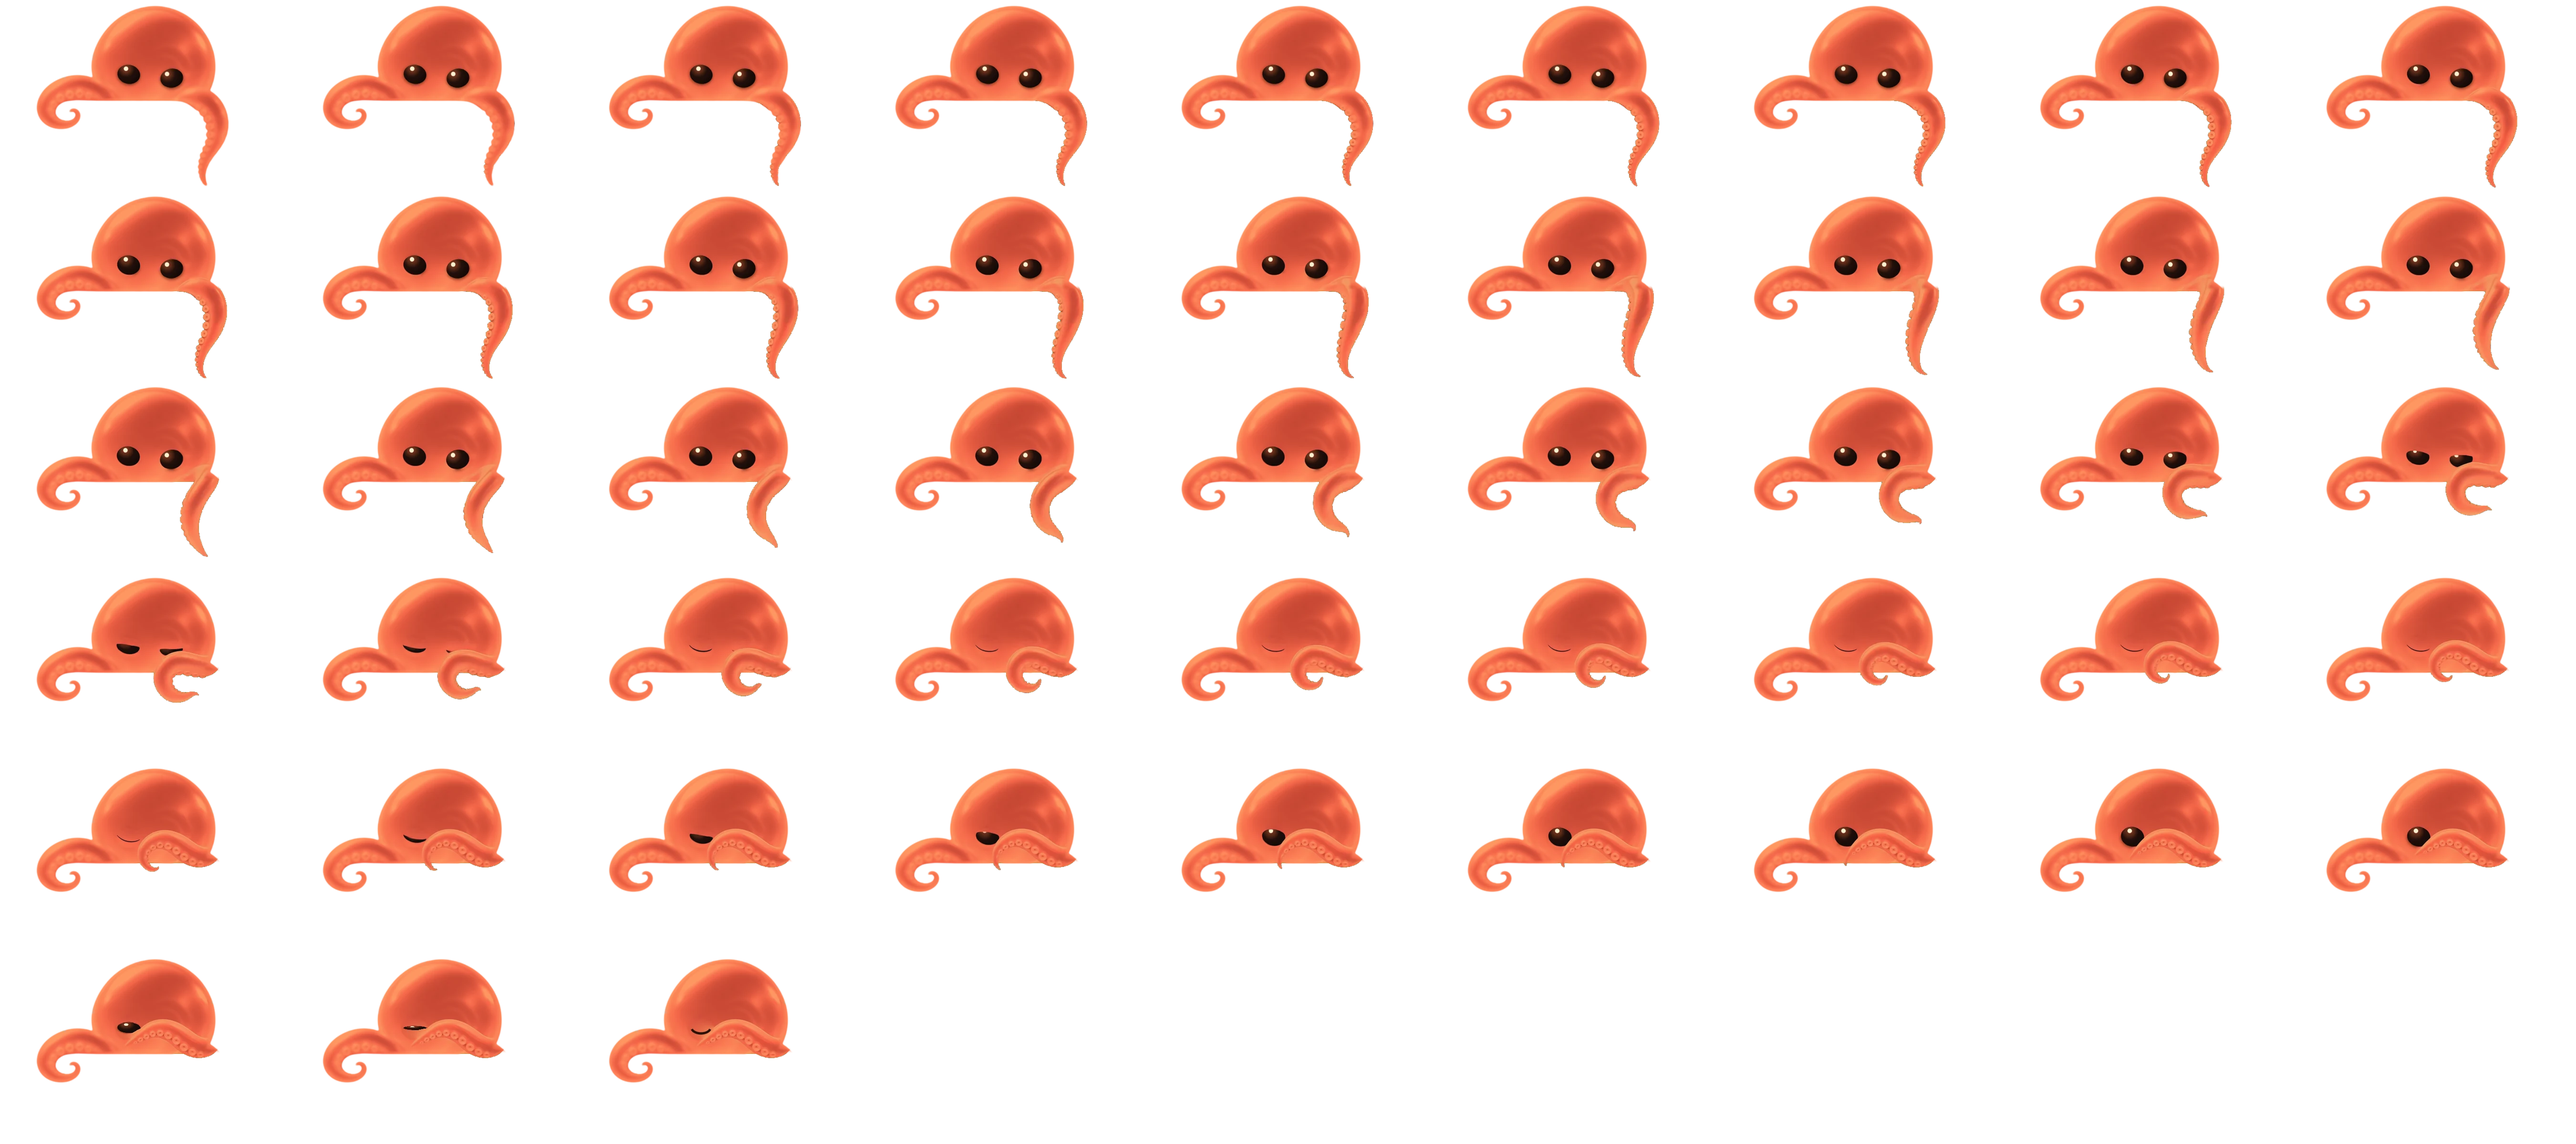
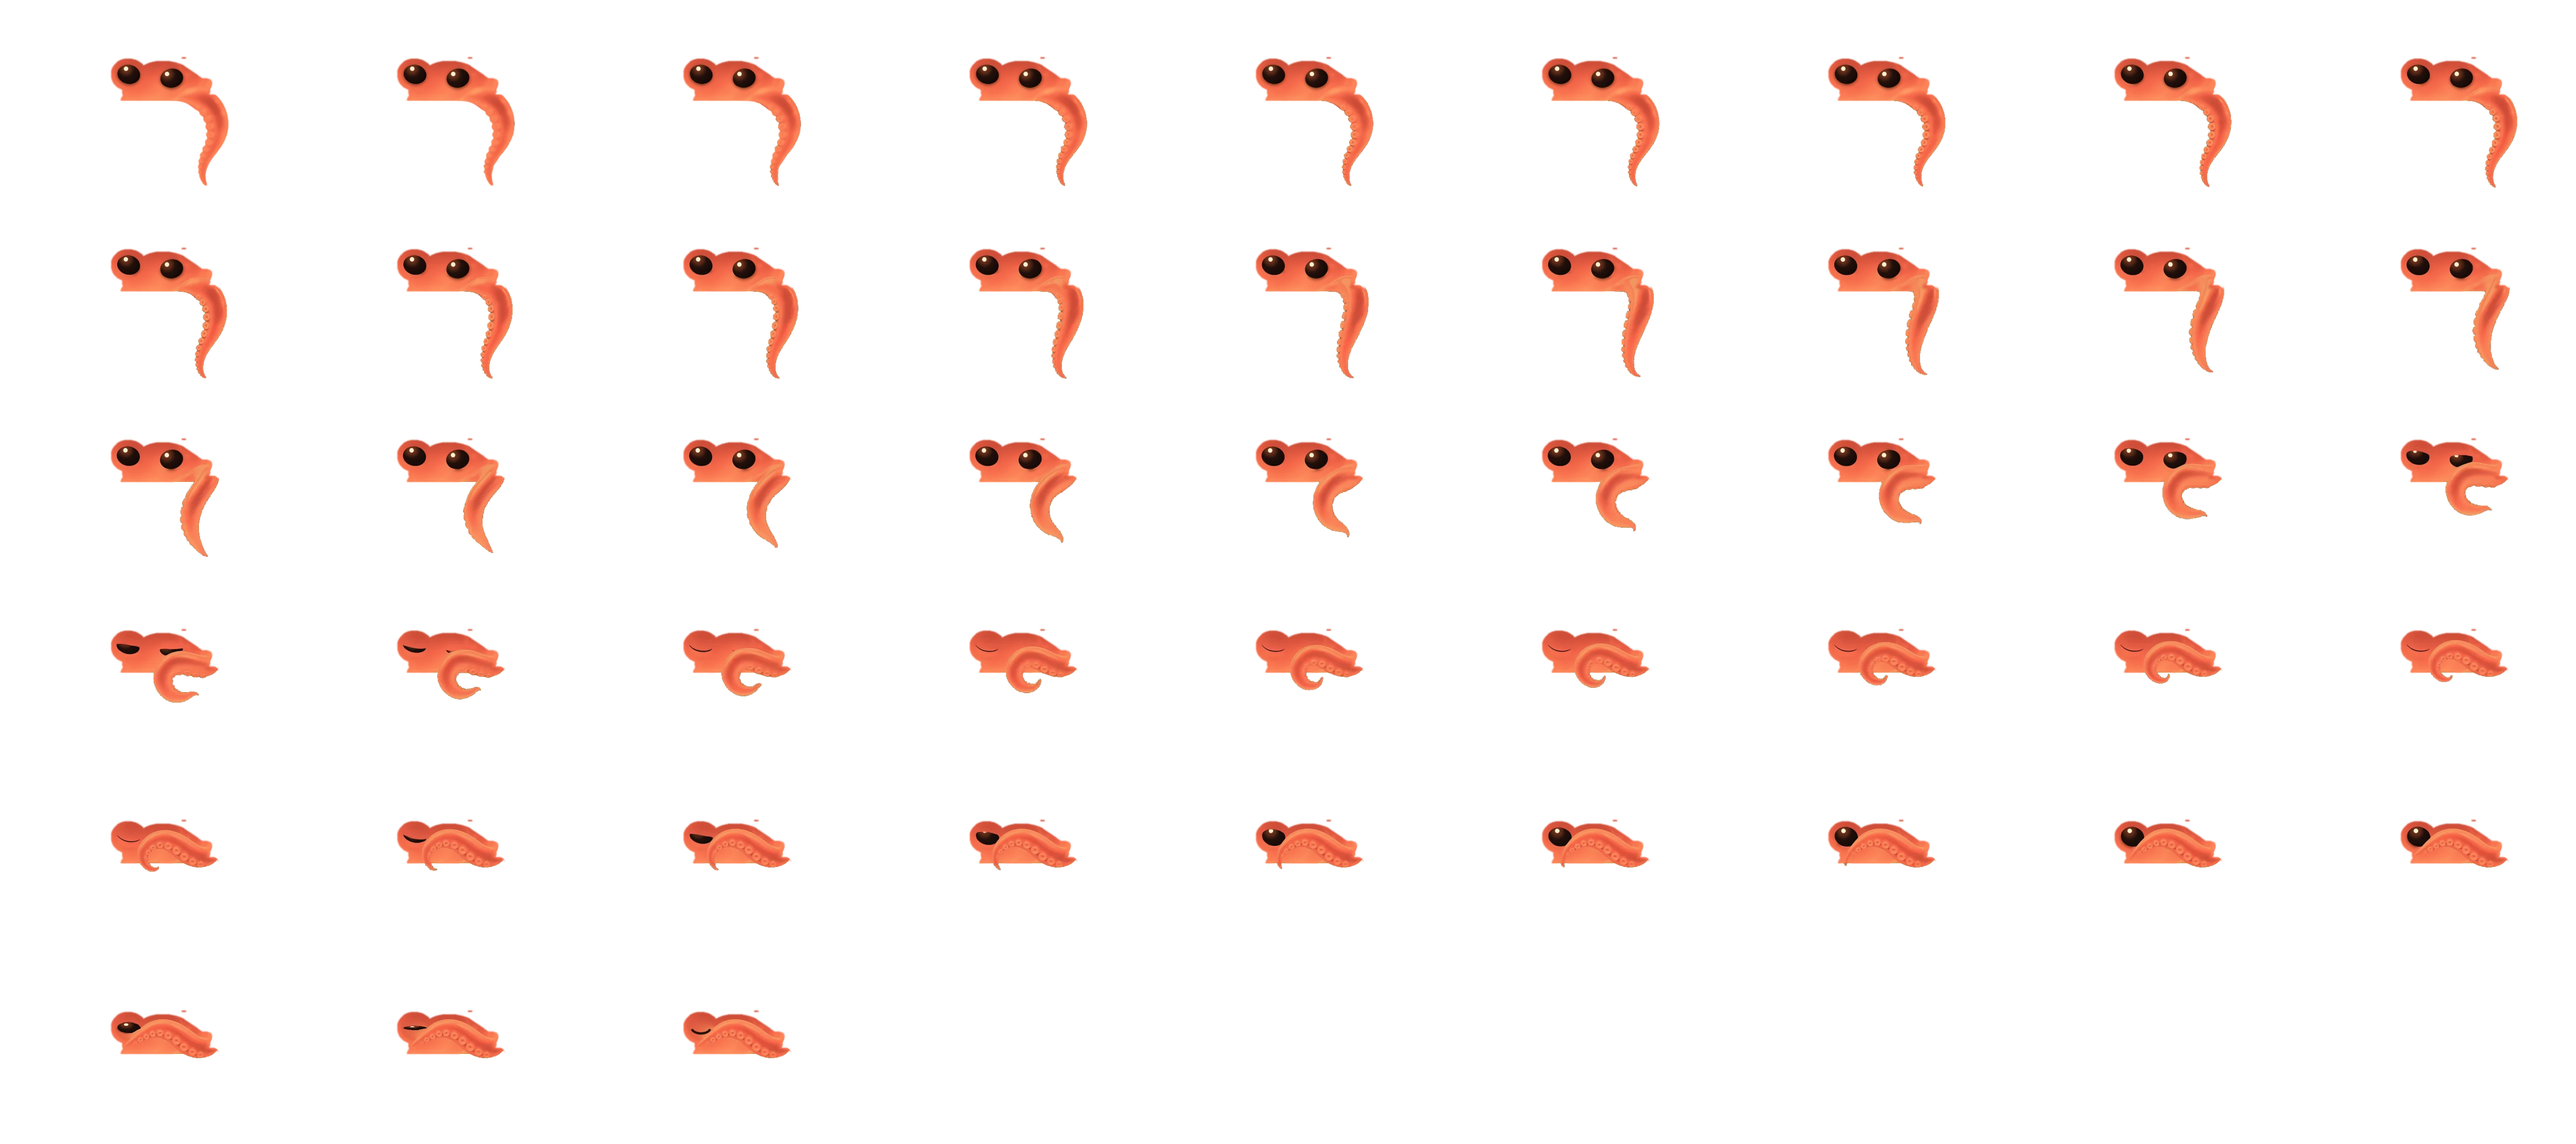
Login octopus: frames cover only the moving arm and eyes; the page's picture stays visible, so no fading

diff --git a/login.html b/login.html
@@ -3,7 +3,7 @@
 .top nav{display:flex;align-items:center;gap:26px}.site-nav-group{position:relative}.site-nav-group summary{list-style:none;cursor:pointer;font:650 12px Sofia,Arial,sans-serif;letter-spacing:1.1px;color:inherit;white-space:nowrap}.site-nav-group summary::-webkit-details-marker{display:none}.site-nav-group summary:after{content:'⌄';margin-left:8px;color:#f46649}.site-nav-menu{position:absolute;top:calc(100% + 18px);left:-20px;width:260px;padding:10px;border:1px solid #180f101a;border-radius:14px;background:#eee9de;z-index:60;display:grid;gap:2px}.top .site-nav-menu a{display:block;padding:12px 14px;border-radius:7px;color:#180f10;font-size:13px;letter-spacing:0;text-transform:none;text-decoration:none}.top .site-nav-menu a:hover,.top .site-nav-menu a:focus-visible{background:#f4664918;color:#a64734}.site-nav-group summary:focus-visible{outline:2px solid #f46649;outline-offset:6px}.top .nav-contact,.top .connect{white-space:nowrap;text-decoration:none}.top{overflow:visible}
 @media(max-width:1050px){.top nav{gap:16px}.top nav>a,.site-nav-group summary{font-size:10px}}
 @media(max-width:850px){.top{flex-wrap:wrap;height:auto;min-height:88px;padding-top:12px;padding-bottom:12px;gap:12px}.top nav{display:flex!important;order:3;width:100%;justify-content:space-between;gap:8px}.site-nav-menu{width:220px;left:0}.top .nav-contact,.top .connect{padding:12px;font-size:10px}.site-nav-group summary,.top nav>a{font-size:10px;letter-spacing:.5px}}
-</style><link rel="stylesheet" href="bridgify-footer.css"><style>@font-face{font-family:Sofia;src:url("Sofia_Sans/SofiaSans-VariableFont_wght.ttf");font-weight:100 900}@font-face{font-family:Chillax;src:url("Chillax_Complete/Fonts/OTF/Chillax-Medium.otf");font-weight:500}</style><link rel="stylesheet" href="bridgify-logo-current.css?v=flat-lockup-5"><link rel="icon" type="image/svg+xml" href="assets/bridgify-favicon.svg"><meta name="description" content="Log in to your Bridgify partner account."><meta name="robots" content="noindex"><link rel="stylesheet" href="copy-v4.css?v=copy-v4-final"><link rel="canonical" href="https://www.bridgify.io/login"><link rel="stylesheet" href="login.css?v=shy16"><link rel="stylesheet" href="shared-footer.css?v=2"><script src="shared-footer.js?v=2" defer></script><link rel="stylesheet" href="brand-typography.css?v=body16"><link rel="stylesheet" href="brand-section-labels.css?v=2"><link rel="stylesheet" href="brand-consistency.css?v=roles2"><link rel="stylesheet" href="shared-navigation.css?v=current1"><script src="shared-navigation.js?v=4" defer></script></head><body data-copy-page="login" class="brand-inner-page"><svg width="0" height="0" aria-hidden="true" style="position:absolute;pointer-events:none"><defs><filter id="brand-knockout" color-interpolation-filters="sRGB"><feColorMatrix type="matrix" values="1 0 0 0 0  0 1 0 0 0  0 0 1 0 0  0 0 -1 0 1"/><feComponentTransfer><feFuncA type="linear" slope="2" intercept="-0.12"/></feComponentTransfer><feComposite in2="SourceAlpha" operator="in"/></filter></defs></svg><header class="top site-header-common"><a class="logo" href="index.html" aria-label="Bridgify home"><img class="brand-logo-full" src="assets/bridgify-logo-full.svg" alt="Bridgify, part of HBX Group" width="1009" height="199"></a><nav aria-label="Main navigation"><details class="site-nav-group"><summary>PRODUCTS</summary><div class="site-nav-menu"><a href="index.html#products">All products</a><a href="api.html">Experiences API</a><a href="marketplace.html">White-Label Marketplace</a><a href="personalization.html">AIyelet: AI personalization</a></div></details><details class="site-nav-group"><summary>SOLUTIONS</summary><div class="site-nav-menu"><a href="otas.html">OTAs and travel platforms</a><a href="airlines.html">Airlines</a><a href="hotels.html">Hotels</a><a href="loyalty-finance.html">Loyalty, rewards and financial services</a><a href="travel-technology.html">Travel technology companies</a><a href="super-apps.html">Super apps and consumer platforms</a></div></details><a href="developers.html">DEVELOPERS</a><details class="site-nav-group"><summary>RESOURCES</summary><div class="site-nav-menu"><a href="insights.html">Insights</a><a href="press.html">Press</a></div></details><details class="site-nav-group"><summary>COMPANY</summary><div class="site-nav-menu"><a href="about-us.html">About</a><a href="careers.html">Careers</a></div></details></nav><div class="nav-actions"><a class="nav-login" href="login.html" aria-current="page">LOG IN</a><a class="connect" href="demo.html?context=login">BOOK A DEMO ↗</a></div></header><main class="login-page" id="main">
+</style><link rel="stylesheet" href="bridgify-footer.css"><style>@font-face{font-family:Sofia;src:url("Sofia_Sans/SofiaSans-VariableFont_wght.ttf");font-weight:100 900}@font-face{font-family:Chillax;src:url("Chillax_Complete/Fonts/OTF/Chillax-Medium.otf");font-weight:500}</style><link rel="stylesheet" href="bridgify-logo-current.css?v=flat-lockup-5"><link rel="icon" type="image/svg+xml" href="assets/bridgify-favicon.svg"><meta name="description" content="Log in to your Bridgify partner account."><meta name="robots" content="noindex"><link rel="stylesheet" href="copy-v4.css?v=copy-v4-final"><link rel="canonical" href="https://www.bridgify.io/login"><link rel="stylesheet" href="login.css?v=shy17"><link rel="stylesheet" href="shared-footer.css?v=2"><script src="shared-footer.js?v=2" defer></script><link rel="stylesheet" href="brand-typography.css?v=body16"><link rel="stylesheet" href="brand-section-labels.css?v=2"><link rel="stylesheet" href="brand-consistency.css?v=roles2"><link rel="stylesheet" href="shared-navigation.css?v=current1"><script src="shared-navigation.js?v=4" defer></script></head><body data-copy-page="login" class="brand-inner-page"><svg width="0" height="0" aria-hidden="true" style="position:absolute;pointer-events:none"><defs><filter id="brand-knockout" color-interpolation-filters="sRGB"><feColorMatrix type="matrix" values="1 0 0 0 0  0 1 0 0 0  0 0 1 0 0  0 0 -1 0 1"/><feComponentTransfer><feFuncA type="linear" slope="2" intercept="-0.12"/></feComponentTransfer><feComposite in2="SourceAlpha" operator="in"/></filter></defs></svg><header class="top site-header-common"><a class="logo" href="index.html" aria-label="Bridgify home"><img class="brand-logo-full" src="assets/bridgify-logo-full.svg" alt="Bridgify, part of HBX Group" width="1009" height="199"></a><nav aria-label="Main navigation"><details class="site-nav-group"><summary>PRODUCTS</summary><div class="site-nav-menu"><a href="index.html#products">All products</a><a href="api.html">Experiences API</a><a href="marketplace.html">White-Label Marketplace</a><a href="personalization.html">AIyelet: AI personalization</a></div></details><details class="site-nav-group"><summary>SOLUTIONS</summary><div class="site-nav-menu"><a href="otas.html">OTAs and travel platforms</a><a href="airlines.html">Airlines</a><a href="hotels.html">Hotels</a><a href="loyalty-finance.html">Loyalty, rewards and financial services</a><a href="travel-technology.html">Travel technology companies</a><a href="super-apps.html">Super apps and consumer platforms</a></div></details><a href="developers.html">DEVELOPERS</a><details class="site-nav-group"><summary>RESOURCES</summary><div class="site-nav-menu"><a href="insights.html">Insights</a><a href="press.html">Press</a></div></details><details class="site-nav-group"><summary>COMPANY</summary><div class="site-nav-menu"><a href="about-us.html">About</a><a href="careers.html">Careers</a></div></details></nav><div class="nav-actions"><a class="nav-login" href="login.html" aria-current="page">LOG IN</a><a class="connect" href="demo.html?context=login">BOOK A DEMO ↗</a></div></header><main class="login-page" id="main">
 <section class="login-shell" aria-labelledby="login-title">
  <div class="login-intro">
   <div class="login-eyebrow"><span aria-hidden="true"></span>PARTNER LOGIN</div>
@@ -87,4 +87,4 @@
   </div>
 </footer>
 </div>
-<!-- SHARED FOOTER END --><script src="bridgify-pages.js"></script><script src="bridgify-nav-motion.js"></script><script src="login.js?v=shy16" defer></script><script src="brand-section-labels.js?v=2"></script><script src="brand-consistency.js?v=roles1"></script></body></html>
+<!-- SHARED FOOTER END --><script src="bridgify-pages.js"></script><script src="bridgify-nav-motion.js"></script><script src="login.js?v=shy17" defer></script><script src="brand-section-labels.js?v=2"></script><script src="brand-consistency.js?v=roles1"></script></body></html>

diff --git a/login.css b/login.css
@@ -89,9 +89,11 @@ body[data-copy-page="login"] .top .connect{background:#eee9de;color:#180f10}
 @media(prefers-reduced-motion:reduce){.login-mascot .login-arm{transform:none}.login-eye{translate:none;scale:none}}
 
 /* Shy octopus (login.js): while the password is typed, a frame sheet shows the right arm curling up over one eye and the
-   other eye closing. The frames carry the matte colours already, so they sit outside .login-fig (no second tone filter).
-   Switching between the live picture and the frames is a short crossfade. */
-.login-flip{position:absolute;inset:0;z-index:2;pointer-events:none;opacity:0;visibility:hidden;background:url("assets/login-octopus-shy.webp?v=3") 0 0/900% 600% no-repeat;transition:opacity .14s linear,visibility 0s linear .14s}
+   other eye closing. The frames only cover where the arm and the eyes move; the page's own picture stays visible everywhere
+   else, so the head and the left arm never change. While the frames play, the picture's own right arm and eyes are hidden
+   (after a short crossfade). The frames carry the matte colours already, so they sit outside .login-fig. */
+.login-flip{position:absolute;inset:0;z-index:2;pointer-events:none;opacity:0;visibility:hidden;background:url("assets/login-octopus-shy.webp?v=4") 0 0/900% 600% no-repeat;transition:opacity .14s linear,visibility 0s linear .14s}
 .login-mascot[data-arm=up] .login-flip{opacity:1;visibility:visible;transition:opacity .14s linear}
-.login-mascot[data-arm=up] :is(.login-fig,.login-eye){visibility:hidden;transition:visibility 0s linear .14s}
+.login-mascot[data-arm=up] :is(.login-eye,.login-arms){visibility:hidden;transition:visibility 0s linear .14s}
+.login-mascot[data-arm=up] .login-body{clip-path:polygon(0 0,100% 0,100% 52.6%,58% 52.6%,58% 100%,0 100%);transition:clip-path 0s linear .14s}
 @media(prefers-reduced-motion:reduce){.login-flip,.login-mascot[data-arm=up] .login-flip{transition:none}}

diff --git a/login.js b/login.js
@@ -174,7 +174,7 @@
 // When typing pauses, that eye peeks open for a moment and closes again. Back down on blur or when the password is shown.
 // The motion is one sheet of 48 frames (assets/login-octopus-shy.webp): 45 frames of the arm, made from a Higgsfield clip
 // between the page's own picture and the covering pose and colour-matched to the picture, then 3 frames of the eye closing.
-// At rest the live picture (with its moving eyes) is shown; the switch is a short crossfade.
+// The frames only cover the arm and the eyes; the page's own picture stays visible under them, so nothing else changes.
 // Reduced motion: jumps between poses without playing the frames.
 (() => {
   const mascot = document.querySelector('.login-mascot');
@@ -183,7 +183,7 @@
   const COLS = 9, ROWS = 6, OPEN = 44, SHUT = 47;            // OPEN: arm over one eye, other eye open. SHUT: that eye closed.
   const stepFor = (from, to) => (from > OPEN || (from === OPEN && to > OPEN) ? 45 : to > from ? 25 : 16);   // ms per frame: eye frames slower
   const flip = document.createElement('div'); flip.className = 'login-flip'; flip.setAttribute('aria-hidden', 'true'); mascot.append(flip);
-  const sheet = new Image(); let ready = false; sheet.onload = () => { ready = true; update(); }; sheet.src = 'assets/login-octopus-shy.webp?v=3';
+  const sheet = new Image(); let ready = false; sheet.onload = () => { ready = true; update(); }; sheet.src = 'assets/login-octopus-shy.webp?v=4';
   const reduce = matchMedia('(prefers-reduced-motion: reduce)');
   let f = 0, target = 0, last = 0, raf = 0, hold = 0, peekTimer = 0, closeTimer = 0;
   const show = n => {
